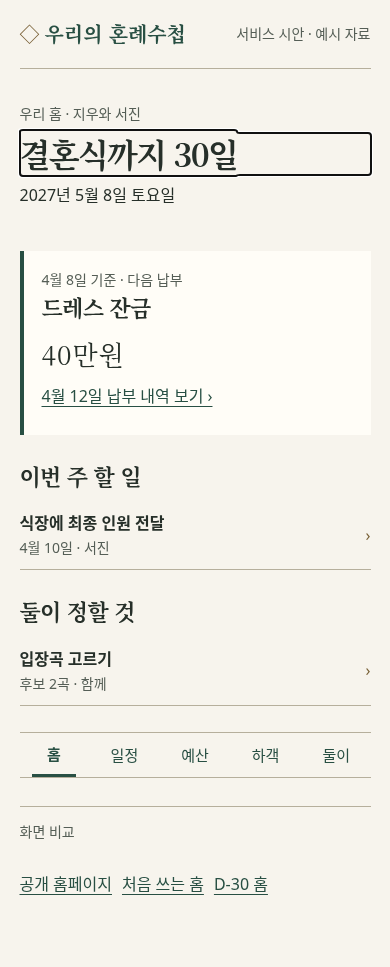
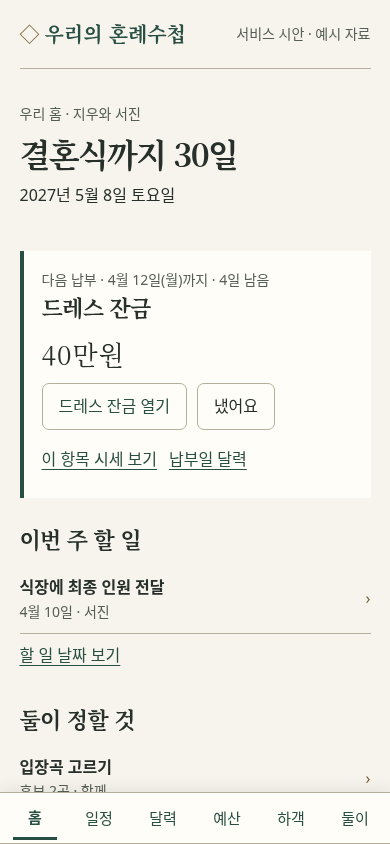
design: Claude 리뷰 반영해 예식일 미정·잔금·공유 흐름 보완

diff --git a/docs/product-outline/preview.html b/docs/product-outline/preview.html
@@ -1,59 +1,152 @@
 <!doctype html>
 <html lang="ko">
 <meta charset="utf-8">
-<meta name="viewport" content="width=device-width,initial-scale=1">
+<meta name="viewport" content="width=device-width,initial-scale=1,viewport-fit=cover">
 <title>우리의 혼례수첩 · 서비스 디자인 초안</title>
 <style>
 :root{color-scheme:light dark;--paper:#f7f4ed;--card:#fffdf7;--ink:#262f29;--sub:#555e56;--rule:#b6af9c;--accent:#284f43;--on:#fffdf7;--gold:#796137;--wash:#e4ebdf;--shadow:#27312718;--pattern:#91a38d}
 @media(prefers-color-scheme:dark){:root{--paper:#18201c;--card:#232c25;--ink:#f4f0e6;--sub:#c2ccc2;--rule:#68796b;--accent:#afcfb7;--on:#172a22;--gold:#d7bb85;--wash:#303f35;--shadow:#0004;--pattern:#556458}}
 *{box-sizing:border-box}body{margin:0;background:var(--paper);color:var(--ink);font:16px/1.6 system-ui,sans-serif;word-break:keep-all}main{max-width:840px;margin:auto;padding:0 clamp(18px,5vw,50px) 42px}
 header{display:flex;align-items:center;justify-content:space-between;gap:10px;border-bottom:1px solid var(--rule);padding:12px 0}.brand,h1,h2,.date{font-family:Georgia,'Noto Serif CJK KR',serif}.brand{font-size:20px;font-weight:700;text-decoration:none}.mark{color:var(--gold)}a{color:var(--accent);text-underline-offset:4px}a,button{min-width:44px;min-height:44px;display:inline-flex;align-items:center}button{font:inherit;color:inherit;cursor:pointer}a:focus-visible,button:focus-visible{outline:3px solid var(--accent);outline-offset:3px}small,.sub{color:var(--sub);font-size:14px}.cover{padding:34px 0 16px;display:grid;gap:8px}.cover h1,h1,h2,p{margin:0}h1{font-size:clamp(32px,6vw,54px);line-height:1.3;letter-spacing:-.055em}h2{font-size:22px;line-height:1.4;letter-spacing:-.03em}.folio{margin:16px 0 22px;background:var(--wash);border:1px solid var(--rule);padding:18px;box-shadow:0 4px 15px var(--shadow)}.leaf{border:1px solid var(--pattern);padding:20px;display:grid;gap:8px;text-align:center;justify-items:center}.date{font-size:clamp(28px,5vw,44px);letter-spacing:.04em}.seal{font:italic 21px Georgia;color:var(--gold);border-block:1px solid var(--pattern);padding:3px 12px}.actions{display:flex;gap:10px;flex-wrap:wrap;margin:18px 0}.button{border-radius:7px;padding:10px 16px;border:1px solid var(--rule);text-decoration:none;background:var(--card)}.primary{background:var(--accent);border-color:var(--accent);color:var(--on)}.section{margin:26px 0}.section h2{margin-bottom:10px}.row{padding:10px 0;border-bottom:1px solid var(--rule);display:flex;align-items:center;gap:12px;justify-content:space-between;text-decoration:none;color:var(--ink)}.row b,.row small{display:block}.row .arrow{color:var(--gold)}.tabbar{display:flex;justify-content:space-around;gap:2px;border-block:1px solid var(--rule);margin:22px 0}.tabbar a{justify-content:center;text-decoration:none;padding:6px;font-size:15px}.tabbar a:first-child{font-weight:bold;border-bottom:3px solid var(--accent)}.feature{background:var(--card);border-left:4px solid var(--accent);padding:16px 18px}.feature .date{font-size:26px}.hint{border-top:1px solid var(--rule);padding-top:12px;margin-top:28px}dialog{max-width:min(420px,90vw);border:1px solid var(--rule);background:var(--card);color:var(--ink);border-radius:8px;padding:22px}dialog p{margin:12px 0 18px}[hidden]{display:none!important}@media(min-width:700px){.cover{padding-top:50px}.landing{display:grid;grid-template-columns:1.1fr 1fr;gap:26px;align-items:center}.folio{margin-block:40px}.cols{display:grid;grid-template-columns:1fr 1fr;gap:26px}}
+
+h1:focus{outline:none}
+body:has(nav:not([hidden])){padding-bottom:calc(68px + env(safe-area-inset-bottom))}
+.tabbar{position:fixed;bottom:0;left:50%;transform:translateX(-50%);width:min(100%,800px);box-sizing:border-box;margin:0;z-index:1;padding:3px 4px calc(3px + env(safe-area-inset-bottom));background:var(--card);box-shadow:0 -3px 14px var(--shadow)}
+.tabbar a{padding-inline:3px}.guide{padding-block:12px;border-block:1px solid var(--rule)}
+.guide .actions,.feature .actions{margin-block:8px}.actions .button[aria-pressed=true]{background:var(--accent);color:var(--on)}
+dialog{width:min(440px,92vw);max-height:80vh;overflow:auto}.links{display:flex;flex-wrap:wrap;gap:12px}
 </style>
 <main>
 <header><a class="brand" href="#welcome"><span class="mark" aria-hidden="true">◇&nbsp;</span>우리의 혼례수첩</a><small>서비스 시안 · 예시 자료</small></header>
 <section id="welcome">
-<div class="landing"><div class="cover"><h1 tabindex="-1">우리의 결혼,<br>함께 준비하는 수첩</h1><p>함께 정한 일과 앞으로 쓸 돈을 한곳에 기록해요.</p><div class="actions"><a class="button primary" href="#start">우리 준비 시작하기</a><a class="button" href="#month">D-30 예시 보기</a></div></div>
+<div class="landing"><div class="cover"><h1 tabindex="-1">우리의 결혼,<br>함께 준비하는 수첩</h1><p>함께 정한 일과 앞으로 쓸 돈을 한곳에 기록해요.</p><div class="actions"><a class="button primary" href="#start">우리 준비 시작하기</a><a class="button" href="#month">준비 중 화면 미리 보기</a></div><small>공개 웹은 가입 없이 이 브라우저에 저장해요. 다른 기기로 옮길 때는 백업 파일을 사용해요.</small></div>
 <div class="folio"><div class="leaf"><span class="seal">Wedding journal</span><strong class="date">2027. 05. 08</strong><span>지우와 서진의 결혼식</span><small>준비 수첩 예시</small></div></div></div>
-<div class="section"><h2>수첩에 담기는 것</h2><p class="row">일정 <small>예약일과 할 일</small></p><p class="row">예산 <small>계약금과 남은 잔금</small></p><p class="row">하객과 둘이 정할 것 <small>초대 명단과 함께 내린 결정</small></p></div></section>
+<div class="section"><h2>수첩에 담기는 것</h2><p class="row">일정 <small>예약일과 할 일</small></p><p class="row">예산 <small>계약금과 남은 잔금</small></p><p class="row">하객과 둘이 정할 것 <small>초대 명단과 함께 내린 결정</small></p><p class="row">가격 비교와 준비 가이드 <small>지역 시세·신혼여행·제도</small></p><small>Claude 아티팩트에서는 권한이 있으면 견적서 사진·PDF도 읽을 수 있어요.</small></div></section>
 <section hidden id="start"><div class="cover"><small>우리 홈 · 처음 시작</small><h1 tabindex="-1">첫 준비를 시작해요</h1><p>날짜가 정해졌다면 일정을 맞추고, 아직이라면 먼저 할 일을 적어보세요.</p></div>
-<div class="section feature"><h2>결혼식은 언제인가요?</h2><p class="sub">예식일에 맞춰 준비 순서를 볼 수 있어요.</p><div class="actions"><a class="button primary" href="#date-note">날짜 정하기</a><a class="button" href="#first-task">아직 미정이에요</a></div></div>
-<div class="section"><h2>첫 할 일</h2><a class="row" href="#first-task"><span>예식장 후보 정리하기</span><span class="arrow">›</span></a><a class="row" href="#invite"><span>파트너와 준비하기</span><span class="arrow">›</span></a></div>
+<div class="section feature"><h2 id="season-title">결혼식은 언제인가요?</h2><p class="sub">예식일에 맞춰 준비 순서를 볼 수 있어요.</p><div class="actions"><a class="button primary" href="#date-note">날짜 정하기</a><a class="button" href="#season">날짜 없이 시작하기</a></div></div>
+<div class="section"><h2>날짜 정하기 전에 할 일 3가지</h2><a class="row" href="#first-task"><span>예식장 후보 정리하기</span><span class="arrow">›</span></a><a class="row" href="#people"><span>예상 하객 수 적어보기</span><span class="arrow">›</span></a><a class="row" href="#limit"><span>예산 범위 정하기</span><span class="arrow">›</span></a></div>
 </section>
 <section hidden id="month"><div class="cover"><small>우리 홈 · 지우와 서진</small><h1 tabindex="-1">결혼식까지 30일</h1><p>2027년 5월 8일 토요일</p></div>
-<div class="section feature"><small>4월 8일 기준 · 다음 납부</small><h2>드레스 잔금</h2><div class="date">40만원</div><a href="#payment">4월 12일 납부 내역 보기 ›</a></div>
-<div class="cols"><div class="section"><h2>이번 주 할 일</h2><a class="row" href="#guest-count"><span><b>식장에 최종 인원 전달</b><small>4월 10일 · 서진</small></span><span class="arrow">›</span></a></div><div class="section"><h2>둘이 정할 것</h2><a class="row" href="#music"><span><b>입장곡 고르기</b><small>후보 2곡 · 함께</small></span><span class="arrow">›</span></a></div></div></section>
-<nav hidden class="tabbar" aria-label="우리 준비 공간"><a href="#home">홈</a><a href="#schedule">일정</a><a href="#budget">예산</a><a href="#guests">하객</a><a href="#couple">둘이</a></nav>
+<div class="section feature"><small id="due" aria-live="polite">다음 납부 · 4월 12일(월)까지 · 4일 남음</small><h2>드레스 잔금</h2><div class="date">40만원</div><div class="actions"><a class="button" href="#payment">드레스 잔금 열기</a><button type="button" class="button" id="paid" aria-pressed="false">냈어요</button></div><div class="links"><a href="#compare">이 항목 시세 보기</a><a href="#pay-day">납부일 달력</a></div></div>
+<div class="cols"><div class="section"><h2>이번 주 할 일</h2><a class="row" href="#guest-count"><span><b>식장에 최종 인원 전달</b><small>4월 10일 · 서진</small></span><span class="arrow">›</span></a><a href="#task-day">할 일 날짜 보기</a></div><div class="section"><h2>둘이 정할 것</h2><a class="row" href="#music"><span><b>입장곡 고르기</b><small>후보 2곡 · 함께</small></span><span class="arrow">›</span></a></div></div></section>
+<aside hidden id="resources"><div class="guide"><h2>준비 가이드</h2><p class="sub">혼인신고 전, 제도별 신청 기한을 확인하세요.</p><div class="links"><a href="#honey">신혼여행지</a><a href="#policy">알아둘 제도</a></div></div><a href="#invite">공유와 백업 안내</a></aside>
+<nav hidden class="tabbar" aria-label="우리 준비 공간"><a href="#home">홈</a><a href="#schedule">일정</a><a href="#calendar">달력</a><a href="#budget">예산</a><a href="#guests">하객</a><a href="#couple">둘이</a></nav>
 <footer class="hint"><small>화면 비교</small><div class="actions"><a href="#welcome">공개 홈페이지</a><a href="#start">처음 쓰는 홈</a><a href="#month">D-30 홈</a></div></footer>
-<dialog aria-labelledby="detail-title"><h2 id="detail-title"></h2><p></p><button type="button" class="button">닫기</button></dialog>
+<dialog aria-labelledby="detail-title"><h2 id="detail-title"></h2><p></p><div id="options" class="actions"></div><button type="button" class="button">닫기</button></dialog>
 </main>
 <script>
 const screens=['welcome','start','month'];
 const notes={
  'date-note':['일정 · 예식일','날짜를 정하면 우리 홈에 D-day와 준비 순서를 보여주는 흐름입니다.'],
  'first-task':['일정 · 첫 할 일','예식장 후보 정리하기 → 담당자 고르기 → 목록에서 완료 표시. 예식일이 미정인 커플도 시작할 수 있습니다.'],
- invite:['둘이 · 파트너 초대','제안 흐름은 초대 보내기 → 상대가 참여 동의 → 같은 수첩 열기입니다. 이 시안은 예시 데이터로 동작합니다.'],
+ invite:['공유와 백업','공개 웹에서는 앱 주소를 보내도 기록은 이 브라우저에 남아요. 파트너가 백업 파일을 가져오면 각자 따로 수정해요. Claude 아티팩트는 공유 메뉴에서 권한을 정해요. 수정 권한이면 함께 편집하고, 보기 권한이면 읽을 수 있어요.'],
  payment:['예산 · 드레스 잔금','총 100만원 중 예약금 60만원을 냈어요. 잔금 40만원은 4월 12일 납부 예정이에요.'],
  'guest-count':['일정 · 최종 인원 전달','4월 10일까지 서진이 하객 명단에서 참석 예정 인원을 확인하고 예식장에 알려줘요.'],
  music:['둘이 · 입장곡 고르기','후보 두 곡을 들어보고 결정한 곡을 기록해요.'],
- schedule:['일정','진행 순서와 달력을 한곳에서 봐요. 예약일과 납부일을 누르면 관련 항목으로 이동해요.'],
+ season:['언제쯤 생각하고 있나요?','예상 시기에 맞춰 준비를 시작해요. 예식일을 정하면 일정을 다시 맞출 수 있어요.'],
+ people:['예상 하객 수','양측에서 초대할 가족과 친구 수를 대략 적어보세요.'],
+ limit:['예산 범위','두 사람이 준비할 수 있는 총액과 예식장에 쓸 금액을 먼저 이야기해 보세요.'],
+ honey:['신혼여행지','희망 출발 월과 가능한 여행 기간을 먼저 정해 보세요.'],
+ policy:['알아둘 제도','혼인신고 예정일을 정하기 전에 지원 요건과 신청 기한을 확인해요.'],
+ calendar:['달력','4월 10일 · 최종 인원 전달 / 4월 12일 · 드레스 잔금'],
+ 'pay-day':['4월 12일 월요일','드레스 잔금 40만원'],
+ 'task-day':['4월 10일 토요일','서진 · 식장에 최종 인원 전달'],
+ compare:['가격 비교','내 견적을 지역 참고 시세와 비교해요.'],
+ schedule:['일정','준비 목록에서 혼인신고 시기를 정하고 관련 제도를 살펴보세요.'],
  budget:['예산','항목별 총액, 예약금, 잔금과 업체 견적을 확인해요.'],
  guests:['하객','양측 명단, 초대 여부, 참석 인원과 축의금을 관리해요.'],
  couple:['둘이','대화 주제를 열고 결정한 내용과 다음 할 일을 기록해요.']};
-const dialog=document.querySelector('dialog');
-let current='welcome',trigger;
-function showScreen(){
- const target=location.hash.slice(1);
- if(notes[target]){dialog.querySelector('h2').textContent=notes[target][0];dialog.querySelector('p').textContent=notes[target][1];if(!dialog.open)dialog.showModal();return;}
- if(dialog.open)dialog.close();
- current=screens.includes(target)?target:current;
- for(const id of screens)document.getElementById(id).hidden=id!==current;
- document.querySelector('nav').hidden=current==='welcome';
- window.scrollTo(0,0);
- if(trigger&&trigger.isConnected&&trigger.getClientRects().length){trigger.focus();trigger=null;}else if(target)document.querySelector('section:not([hidden]) h1').focus();
+const dialog = document.querySelector('dialog');
+const options = document.querySelector('#options');
+let current = 'welcome';
+let trigger;
+let budgetView = 'budget';
+let paid = false;
+
+function addOption(label, action, selected) {
+  const button = document.createElement('button');
+  button.type = 'button';
+  button.className = 'button';
+  button.textContent = label;
+  if (selected !== undefined) button.setAttribute('aria-pressed', String(selected));
+  button.onclick = action;
+  options.append(button);
 }
-document.addEventListener('click',event=>{const a=event.target.closest('a');if(!a)return;const id=a.hash.slice(1);if(notes[id])trigger=a;if(id==='home'){event.preventDefault();location.hash=current;}});
-function closeNote(){history.replaceState(null,'','#'+current);showScreen();}
-dialog.querySelector('button').onclick=closeNote;
-dialog.addEventListener('cancel',event=>{event.preventDefault();closeNote();});
-window.addEventListener('hashchange',showScreen);showScreen();
+
+function displayNote(id) {
+  const [title, description] = notes[id];
+  dialog.querySelector('h2').textContent = title;
+  dialog.querySelector('p').textContent = id === 'payment' && paid
+    ? '예약금 60만원과 잔금 40만원을 모두 냈어요.' : description;
+  options.replaceChildren();
+  if (id === 'season') {
+    for (const season of ['봄','여름','가을','겨울','아직 몰라요']) {
+      addOption(season, () => {
+        const month = {봄:3, 여름:6, 가을:9, 겨울:12}[season];
+        document.querySelector('#season-title').textContent = month
+          ? '2027년 ' + season + ' 예정' : '날짜 없이 준비 중';
+        document.querySelector('#season-title + p').textContent = month
+          ? month + '월 1일 기준 임시 일정이에요. 날짜를 정하면 다시 맞춰요.'
+          : '아래 세 가지부터 시작해요. 예식일은 나중에 정해도 돼요.';
+        closeNote();
+      });
+    }
+  }
+  if (id === 'budget' || id === 'compare') {
+    budgetView = id;
+    for (const [key,label] of [['budget','내 예산'],['compare','가격 비교']]) {
+      addOption(label, () => {displayNote(key); options.querySelector('[aria-pressed="true"]').focus();}, id === key);
+    }
+  }
+  if (id === 'calendar' && current === 'start') dialog.querySelector('p').textContent = '아직 정해진 일정이 없어요. 날짜를 정하면 이곳에서 볼 수 있어요.';
+  if (id === 'calendar' && current === 'month') {
+    addOption('4월 10일 할 일', () => displayNote('task-day'));
+    addOption('4월 12일 납부', () => displayNote('pay-day'));
+  }
+  if (id === 'pay-day') addOption('드레스 잔금 열기', () => displayNote('payment'));
+  if (id === 'task-day') addOption('최종 인원 전달 열기', () => displayNote('guest-count'));
+  if (id === 'schedule') addOption('혼인신고 전 제도 보기', () => displayNote('policy'));
+  if (id === 'couple') addOption('공유와 백업 안내', () => displayNote('invite'));
+  if (!dialog.open) dialog.showModal();
+}
+
+function showScreen() {
+  const target = location.hash.slice(1);
+  if (Object.hasOwn(notes,target)) {
+    displayNote(target === 'budget' ? budgetView : target);
+    return;
+  }
+  if (dialog.open) dialog.close();
+  if (screens.includes(target)) current = target;
+  for (const id of screens) document.getElementById(id).hidden = id !== current;
+  document.querySelector('nav').hidden = document.querySelector('#resources').hidden = current === 'welcome';
+  if (trigger && trigger.getClientRects().length) {trigger.focus(); trigger = null;}
+  else {window.scrollTo(0,0); if (target) document.querySelector('section:not([hidden]) h1').focus();}
+}
+document.addEventListener('click', event => {
+  const link = event.target.closest('a');
+  if (!link) return;
+  const id = link.hash.slice(1);
+  if (Object.hasOwn(notes,id)) {
+    event.preventDefault();
+    trigger = link;
+    history.pushState(null, '', '#' + id);
+    showScreen();
+  }
+  if (id === 'home') {event.preventDefault(); window.scrollTo(0,0);}
+});
+document.querySelector('#paid').onclick = event => {
+  paid = !paid;
+  event.currentTarget.textContent = paid ? '납부 표시 취소' : '냈어요';
+  event.currentTarget.setAttribute('aria-pressed', String(paid));
+  document.querySelector('#due').textContent = paid ? '납부 완료 · 드레스 잔금' : '다음 납부 · 4월 12일(월)까지 · 4일 남음';
+};
+function closeNote() {
+  history.replaceState(null,'','#'+current);
+  showScreen();
+}
+dialog.querySelector(':scope > button').onclick = closeNote;
+dialog.addEventListener('cancel', event => {event.preventDefault();closeNote();});
+window.addEventListener('hashchange',showScreen);
+showScreen();
 </script></html>

diff --git a/docs/product-outline/README.md b/docs/product-outline/README.md
@@ -1,4 +1,4 @@
-# 함께 쓰는 결혼 준비 수첩 · 제품 초안 1
+# 함께 쓰는 결혼 준비 수첩 · 제품 초안 2
 
 예식일을 정했거나 계절만 정한 두 사람이 첫 할 일을 기록하고, 준비가 진행되면 다음 일정·납부·결정을 확인하는 서비스다. ‘우리의 혼례수첩’은 화면 검토용 가칭이다. 시안의 이름, 일정, 금액은 가상 예시다.
 
@@ -16,10 +16,11 @@
 | 우리 공간 | 사용자가 하려는 일 | 현재 앱에서 이어올 화면 |
 | --- | --- | --- |
 | 홈 | 다음 할 일·납부·결정 열기 | D-day와 이번 주 현황. 홈에서 준비 가이드(신혼여행·알아둘 것), 공유와 백업에 접근 |
-| 일정 | 목록으로 준비 순서 확인, 달력으로 예약·납부일 조회 | 진행 순서와 달력, 달력에서 해당 항목으로 이동 |
+| 일정 | 목록으로 준비 순서 확인 | 진행 순서, 혼인신고 관련 제도 바로가기 |
+| 달력 | 예약·납부일 조회 | 독립 진입점, 해당 날짜에서 원래 항목 열기 |
 | 예산 | 계약 총액·예약금·잔금 확인, 두 견적 비교 | 예산과 가격 비교, 청첩장 모임 세부 내역 |
 | 하객 | 양측 초대 명단과 참석·축의금 관리 | 하객 목록과 상세 |
-| 둘이 | 대화 주제 열기, 결정 기록, 파트너 관리 | 둘이 정할 것. 파트너 초대와 담당자 배정은 신규 제안 |
+| 둘이 | 대화 주제 열기, 결정 기록, 파트너 관리 | 둘이 정할 것, 환경별 공유·백업 안내. 담당자 배정은 신규 제안 |
 
 ## 첫 출시 범위와 검토 기준
 
@@ -28,12 +29,12 @@
 - 공동 편집은 별도 출시 판단이 필요하다. 현재 공개 웹은 브라우저에 저장하고 Claude 아티팩트는 권한에 따라 공동 저장한다. 공개 웹에 초대를 도입하려면 상대의 참여 동의, 수정 권한, 연결 해제, 기존 개인 기록 이전을 먼저 설계한다. 가상 화면에서 저장·초대는 실행되지 않는다.
 - 설치형 앱의 우선순위는 모바일 웹 반복 사용을 관찰한 뒤 정한다. 가격 자료의 월별 점검은 별도 운영 과제로 관리한다.
 
-## Claude에게 요청하는 검토
+## Claude 리뷰 반영
 
-**Codex 작업물**은 위 메뉴 지도, 세 화면의 HTML, 모바일 이미지, 화면 이동 검증이다. **Claude에게 요청할 작업**은 다음 세 가지다.
+[검토 원문](https://github.com/dudwlstjr3-maker/marry-me/pull/28#issuecomment-6966352465)
 
-1. 현재 main의 8개 탭을 위 지도와 대조하고, 기존 사용자가 찾기 어려워지는 기능 두 가지와 대체 진입점을 적어 주세요. 특히 독립 달력 탭을 일정 안으로 넣을 때의 장단점을 판단해 주세요.
-2. 예식일 미정인 커플과 D-30 커플의 관점에서 막히는 지점을 한 곳씩 찾고, 버튼·첫 화면 문구의 전후 예시를 제안해 주세요.
-3. 공개 웹과 Claude 아티팩트에서 초대·백업이 실제로 가능한 범위를 구별해, 첫 출시에서 약속할 수 있는 공동 사용 문구를 각각 한 줄로 써 주세요.
-
-응답은 이 PR에 ‘화면 / 문제 / 권장 수정 / 이유’ 표로 남겨 주세요. Claude는 문구와 사용자 흐름을 검토하고, Codex가 합의한 수정안을 같은 시안에 반영한 뒤 모바일·데스크톱에서 다시 확인합니다.
+- 첫 방문에서 예시 수첩의 용도와 공개 웹의 저장 방식을 안내한다. 양쪽 홈에서 준비 가이드와 공유 안내를 열 수 있다. 예산의 첫 선택지는 ‘내 예산 / 가격 비교’이며 시안을 열어 둔 동안 마지막 선택을 기억한다.
+- 예식일 미정이면 2027년의 계절 또는 ‘아직 몰라요’를 선택하고 날짜 전 준비 과제 세 가지로 이어간다. 계절의 첫날은 임시 기준이고 D-day를 확정하지 않는다.
+- D-30 홈에서 잔금 기한·남은 일수를 읽고 ‘냈어요’를 누르거나 되돌릴 수 있다. 날짜에서 해당 항목으로 이동한다. 예시에는 기한이 지난 미납금이 없다. 실제 연체 건이 있을 때는 다음 납부 위에 우선 표시하는 것이 다음 단계다.
+- Claude는 일정 속 달력 보기를 제안했다. 사용자가 요청한 독립 달력 진입점을 유지하는 안으로 모바일 하단에 여섯 메뉴를 두었다. 320px에서 44px 누름 영역과 한 줄 배치를 확인한다.
+- 두 저장 환경의 공유 범위를 각각 설명한다. 견적서 읽기는 해당 권한이 있는 Claude 아티팩트 기능으로 안내한다.
